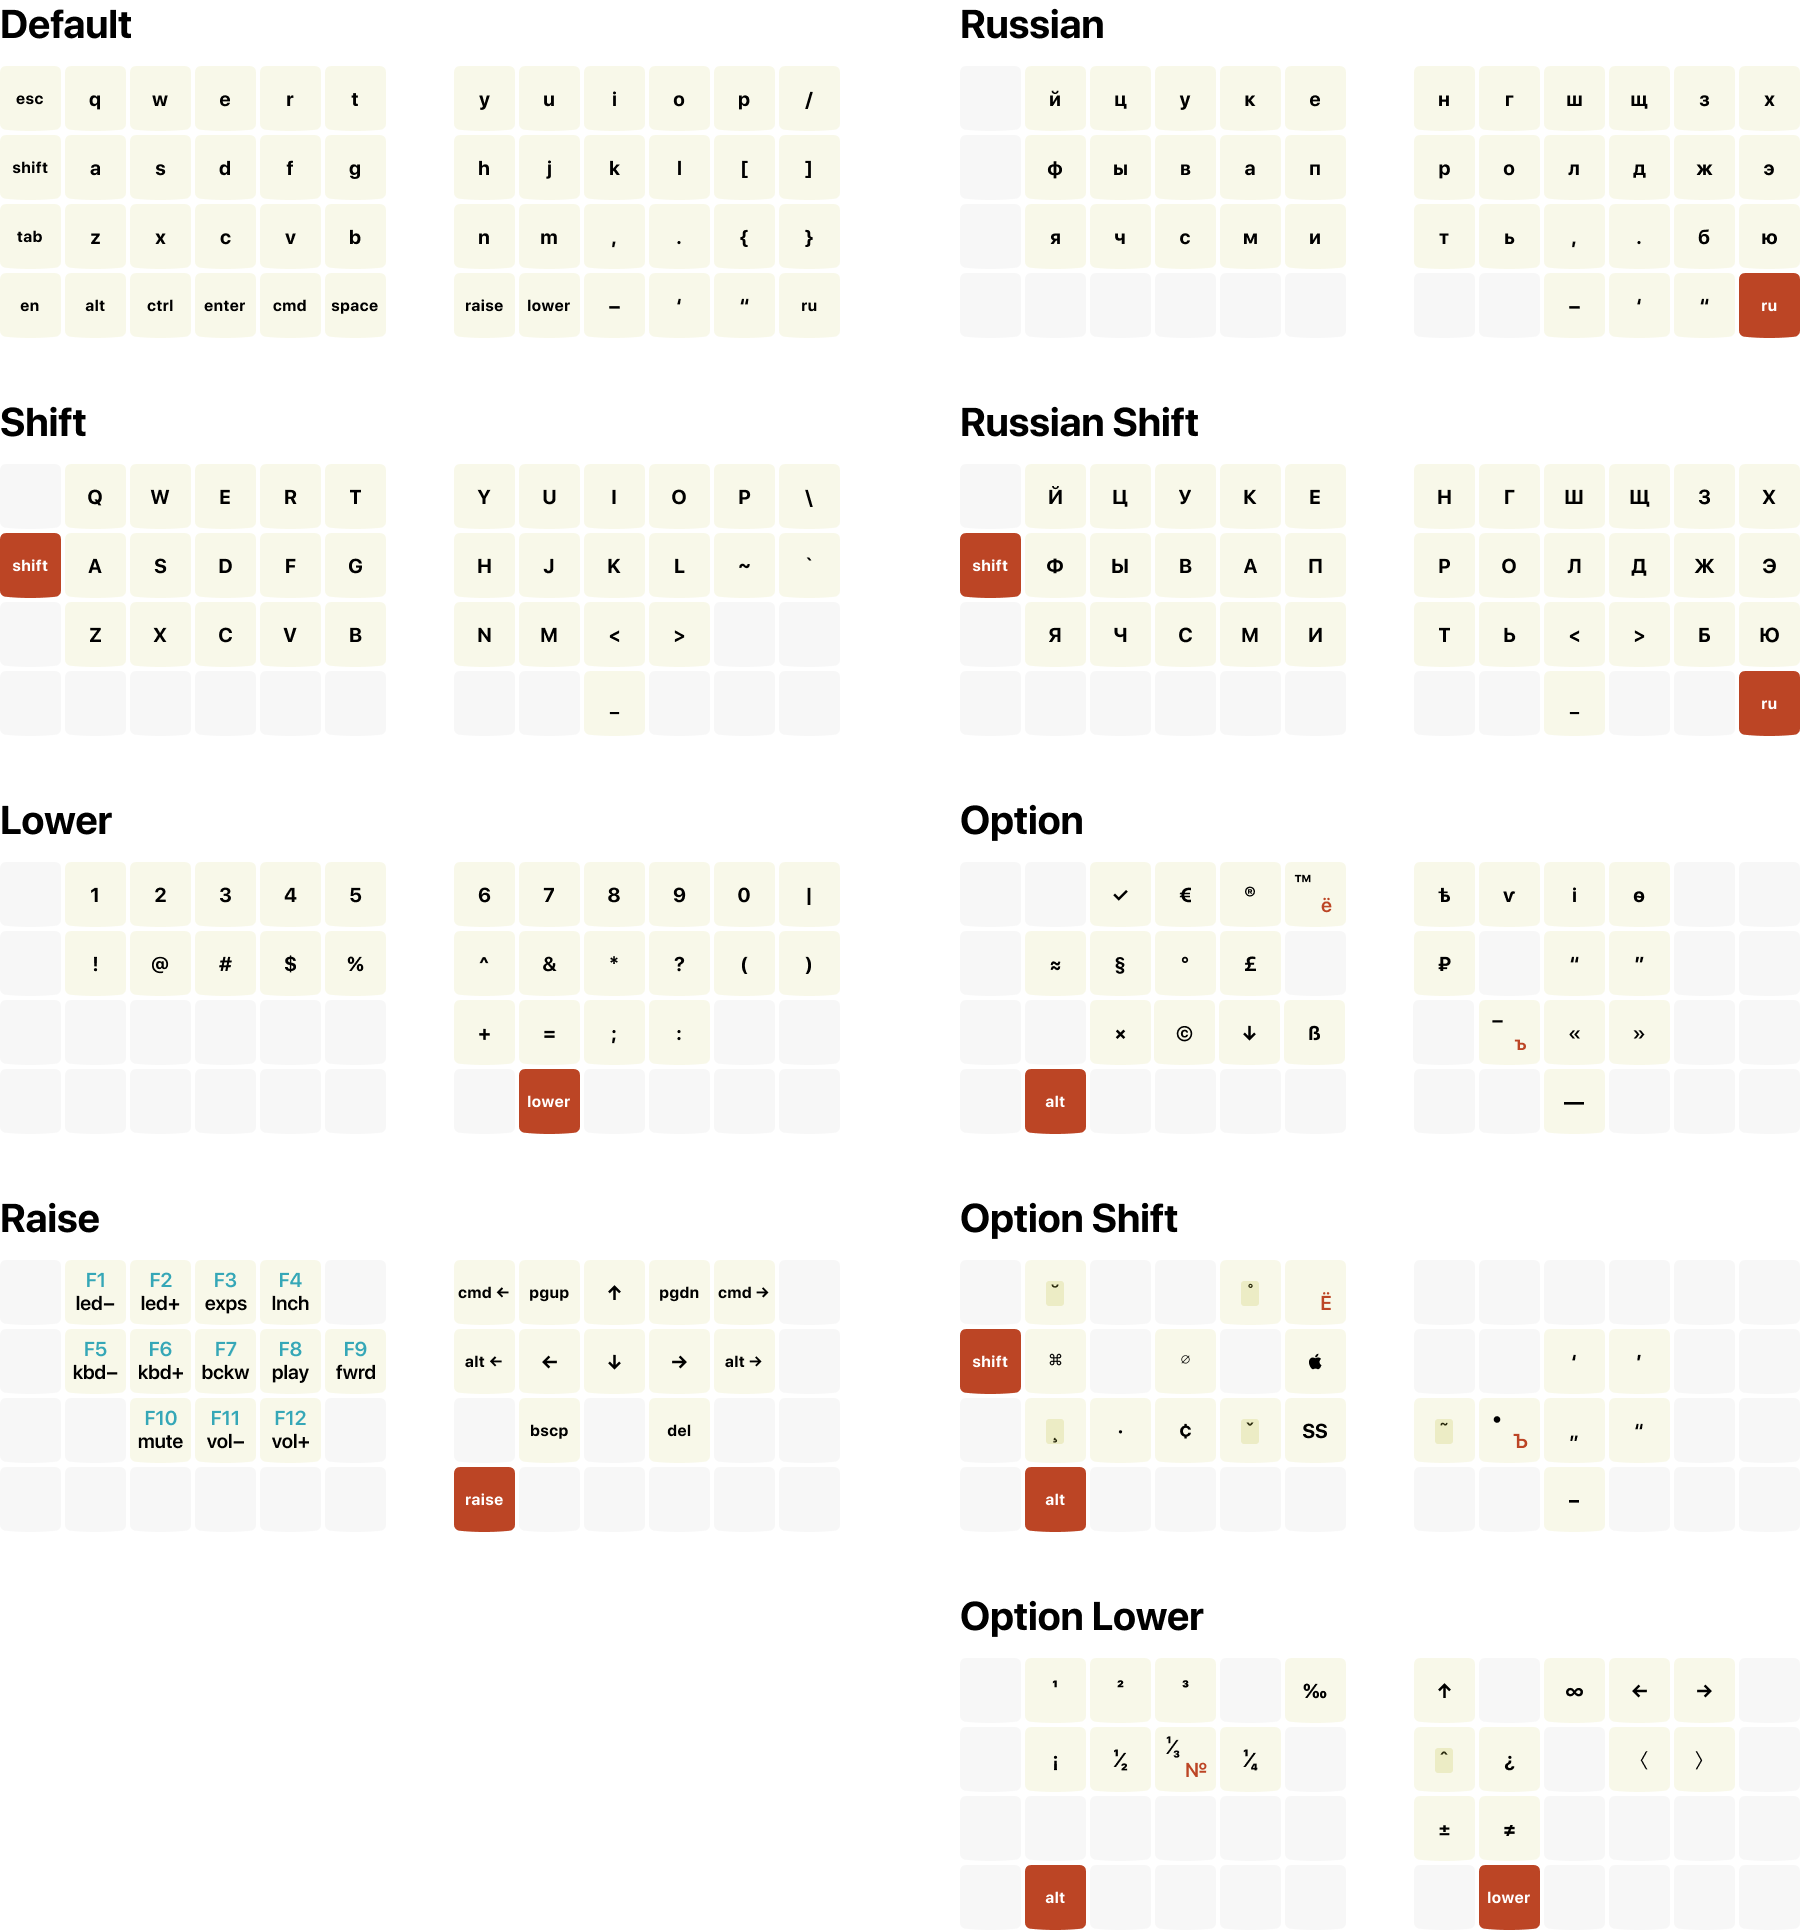
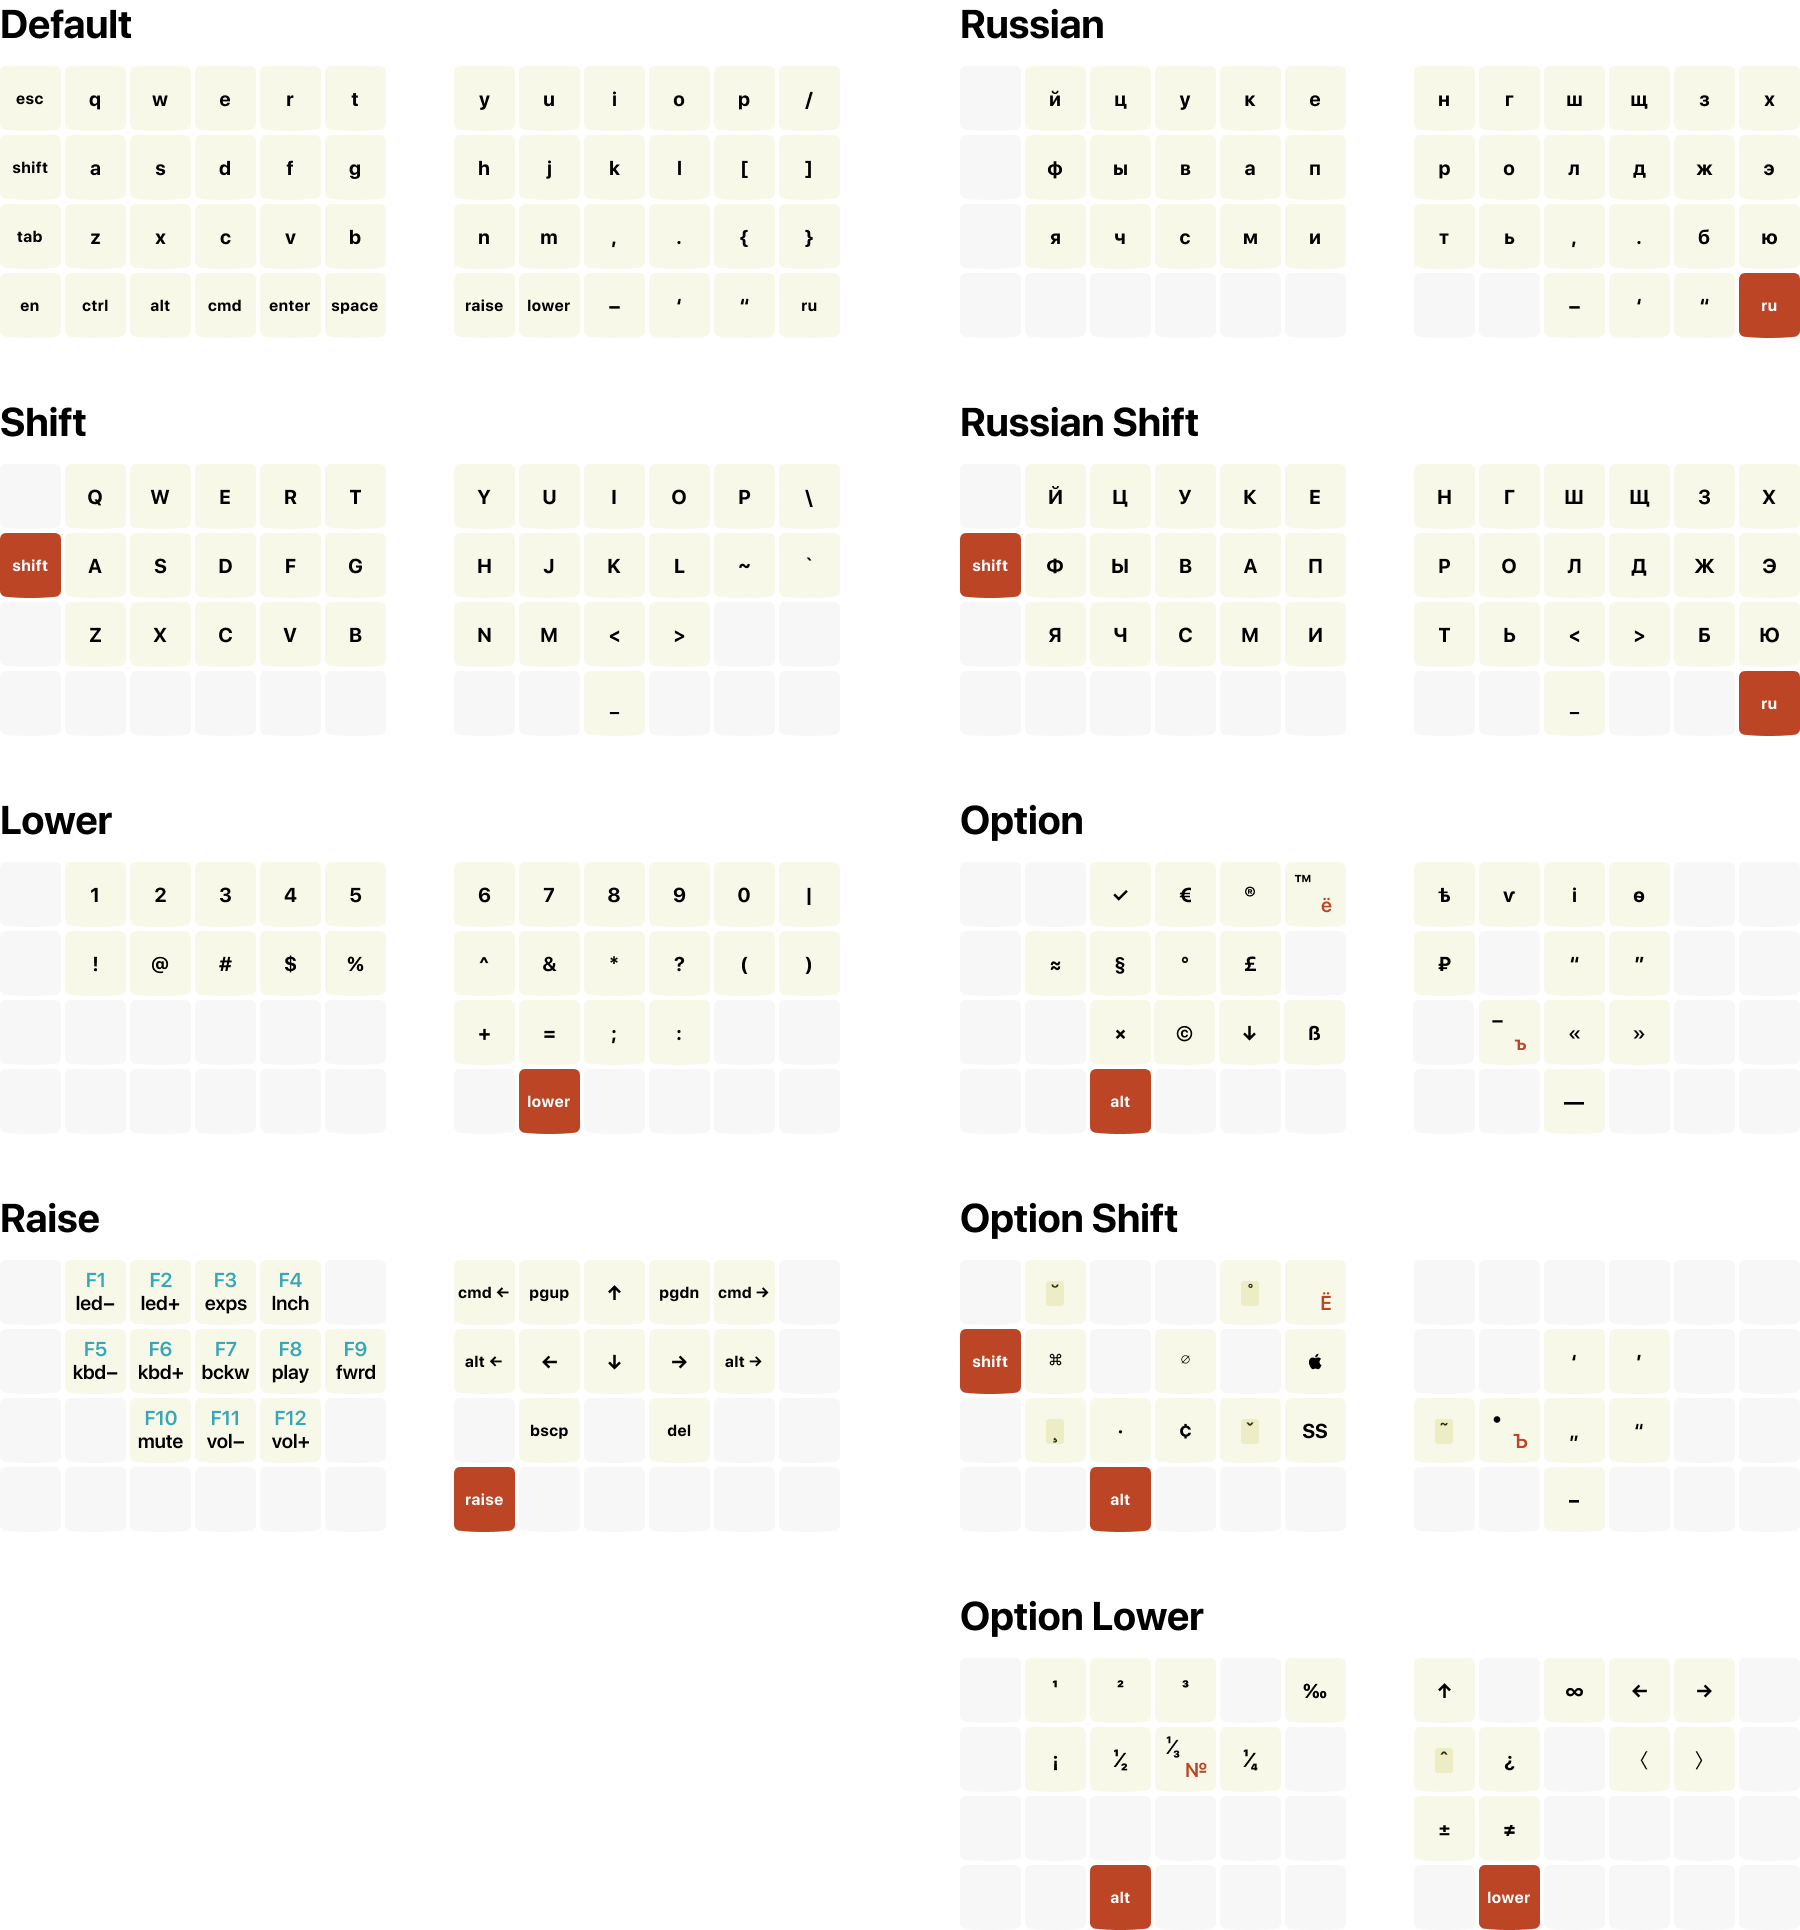
rearranged cmd alt ctrl enter

Changed region(s): [[0.56, 0.9637, 0.6533, 1.0], [0.56, 0.7461, 0.6533, 0.8083], [0.56, 0.5285, 0.6533, 0.5907]]

diff --git a/keymap/keymap.c b/keymap/keymap.c
@@ -27,7 +27,7 @@ const uint16_t PROGMEM keymaps[][MATRIX_ROWS][MATRIX_COLS] = {
   KC_ESC,  KC_Q,    KC_W,    KC_E,    KC_R,    KC_T,       KC_Y,    KC_U,    KC_I,    KC_O,    KC_P,    KC_SLSH, \
   KC_LSFT, KC_A,    KC_S,    KC_D,    KC_F,    KC_G,       KC_H,    KC_J,    KC_K,    KC_L,    KC_LBRC, KC_RBRC, \
   KC_TAB,  KC_Z,    KC_X,    KC_C,    KC_V,    KC_B,       KC_N,    KC_M,    KC_COMM, KC_DOT,  KC_NUBS, KC_NUHS, \
-  KC_F17,  KC_LALT, KC_LCTL, KC_ENT,  KC_LGUI, KC_SPC,     RAISE,   LOWER,   KC_MINS, KC_QUOT, KC_DQUO, KC_F18   \
+  KC_F17,  KC_LCTL, KC_LALT, KC_LGUI, KC_ENT,  KC_SPC,     RAISE,   LOWER,   KC_MINS, KC_QUOT, KC_DQUO, KC_F18   \
 ),
 
 [_LOWER] = LAYOUT_ortho_4x12( \
